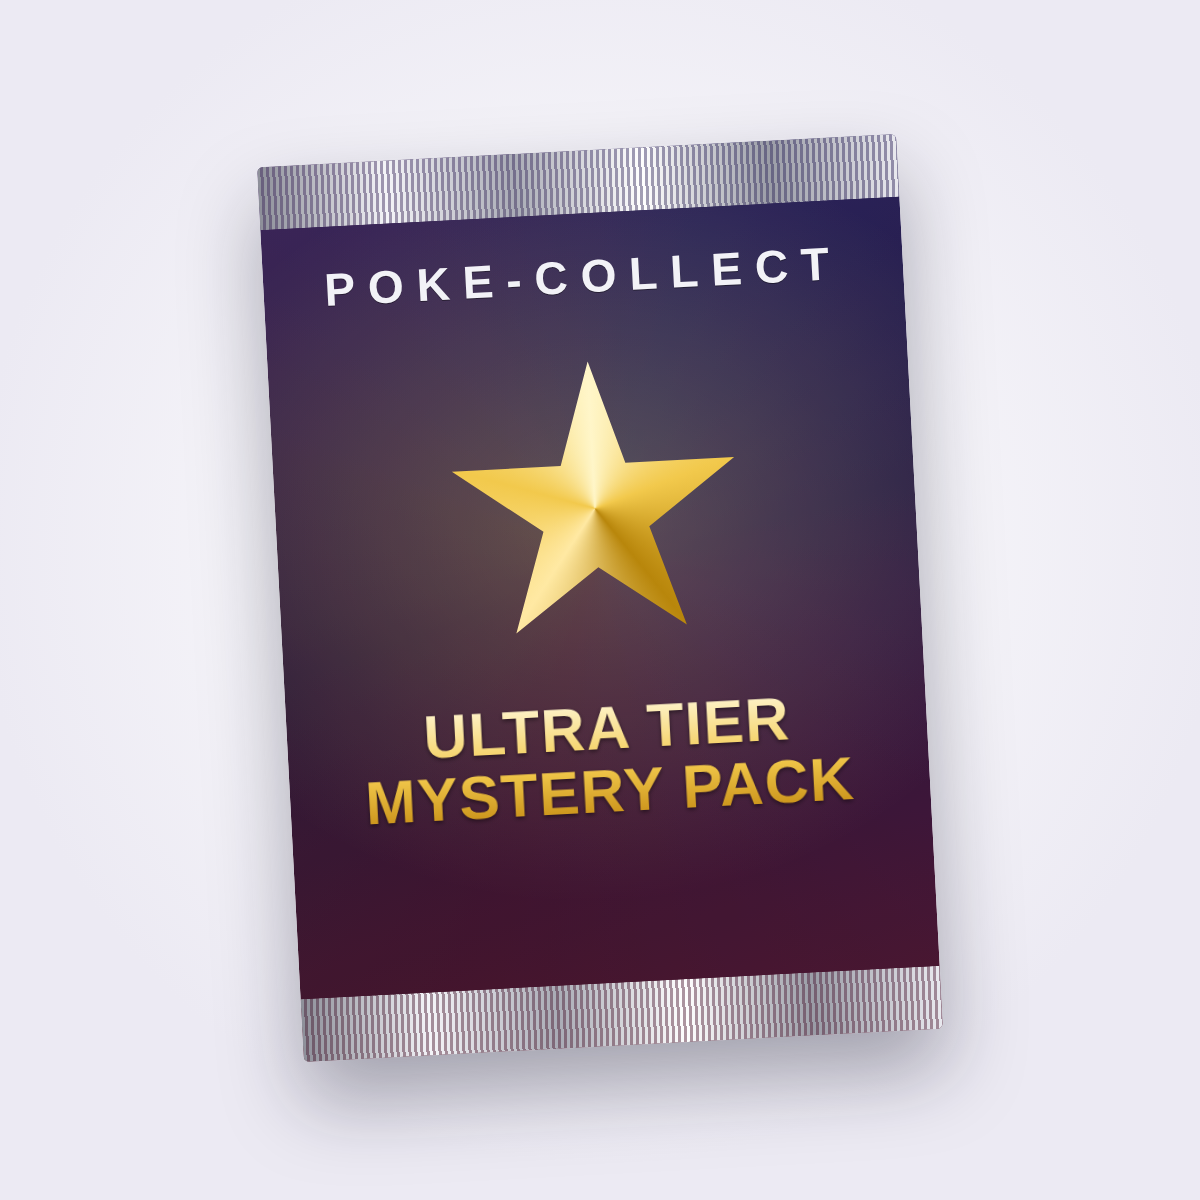
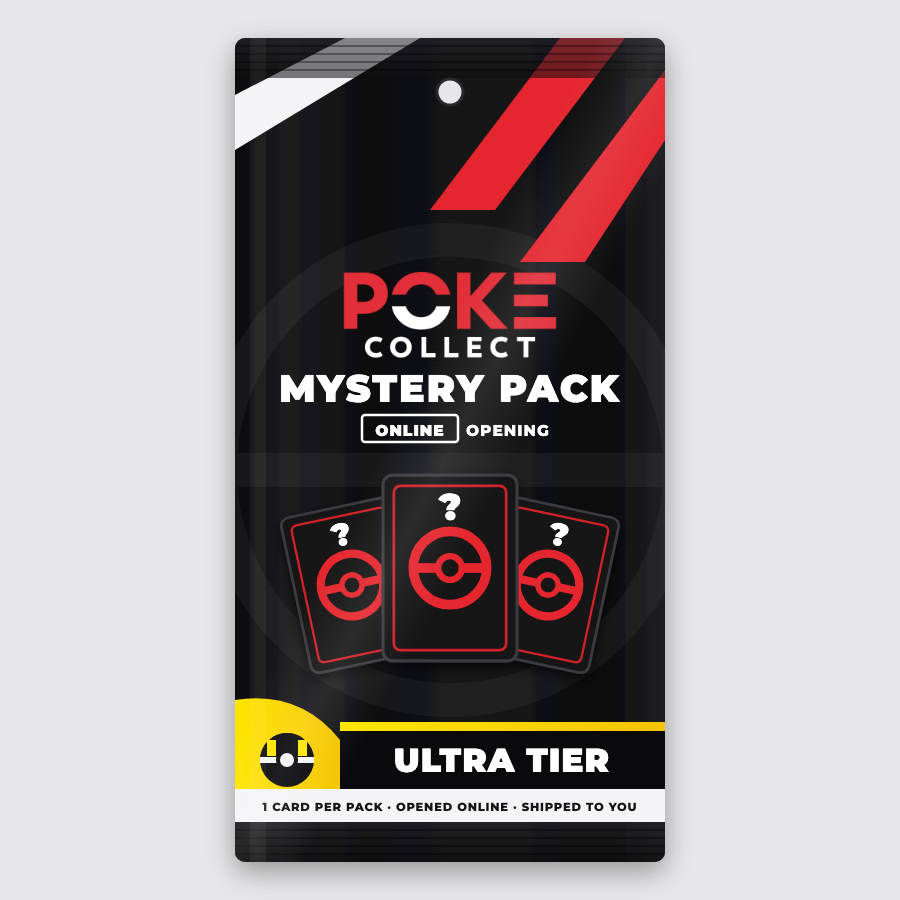
Ultra Tier pack art in the Poke-Collect mystery packaging style
Replaces public/packs/ultra-tier-pack.png with a black foil bag matching the
store's Mystery Bag and TAG Mystery Graded Card mockups (red and white
stripes, stacked Poke-Collect logo, yellow Ultra tier band, no pull ratios).
design/ultra-tier-pack.html is the source; open it in a browser at 900x900
to re-export or make other tiers. Pack tiles style square artwork on grey.

diff --git a/design/ultra-tier-pack.html b/design/ultra-tier-pack.html
@@ -1,0 +1,83 @@
+<!doctype html><html><head><meta charset="utf-8">
+<link href="https://fonts.googleapis.com/css2?family=Montserrat:wght@600;700;800;900&display=block" rel="stylesheet">
+<style>html,body{margin:0;background:#e7e7e9}svg{display:block}text{font-family:Montserrat,Arial,sans-serif}</style></head><body>
+<svg width="900" height="900" viewBox="0 0 900 900" xmlns="http://www.w3.org/2000/svg" xmlns:xlink="http://www.w3.org/1999/xlink">
+<defs>
+  <linearGradient id="bag" x1="0" y1="0" x2="1" y2="0">
+    <stop offset="0" stop-color="#0b0b0d"/><stop offset=".12" stop-color="#1c1c20"/><stop offset=".3" stop-color="#0e0e10"/>
+    <stop offset=".62" stop-color="#151518"/><stop offset=".86" stop-color="#0a0a0c"/><stop offset="1" stop-color="#202024"/></linearGradient>
+  <linearGradient id="gloss" x1="0" y1="0" x2="1" y2="1">
+    <stop offset="0" stop-color="#fff" stop-opacity=".0"/><stop offset=".42" stop-color="#fff" stop-opacity=".0"/>
+    <stop offset=".5" stop-color="#fff" stop-opacity=".09"/><stop offset=".58" stop-color="#fff" stop-opacity="0"/></linearGradient>
+  <linearGradient id="crimp" x1="0" y1="0" x2="0" y2="1"><stop offset="0" stop-color="#2a2a2e"/><stop offset="1" stop-color="#0d0d0f"/></linearGradient>
+  <linearGradient id="yellow" x1="0" y1="0" x2="1" y2="0"><stop offset="0" stop-color="#ffe600"/><stop offset="1" stop-color="#f5c400"/></linearGradient>
+  <clipPath id="bagclip"><rect x="235" y="38" width="430" height="824" rx="10"/></clipPath>
+  <filter id="sh" x="-30%" y="-30%" width="160%" height="160%"><feDropShadow dx="0" dy="10" stdDeviation="14" flood-color="#000" flood-opacity=".35"/></filter>
+  <filter id="cs" x="-30%" y="-30%" width="160%" height="160%"><feDropShadow dx="0" dy="6" stdDeviation="6" flood-color="#000" flood-opacity=".6"/></filter>
+  <g id="cardback">
+    <rect x="-62" y="-86" width="124" height="172" rx="9" fill="#141416" stroke="#3a3a40" stroke-width="3"/>
+    <rect x="-52" y="-76" width="104" height="152" rx="6" fill="none" stroke="#e5262f" stroke-width="2.5" opacity=".9"/>
+    <circle r="34" fill="none" stroke="#e5262f" stroke-width="9"/>
+    <rect x="-34" y="-4.5" width="68" height="9" fill="#e5262f"/>
+    <circle r="11" fill="#141416" stroke="#e5262f" stroke-width="6"/>
+    <text y="-44" text-anchor="middle" font-size="34" font-weight="900" fill="#fff">?</text>
+  </g>
+</defs>
+
+<!-- bag -->
+<g filter="url(#sh)">
+  <rect x="235" y="38" width="430" height="824" rx="10" fill="url(#bag)"/>
+</g>
+<g clip-path="url(#bagclip)">
+  <!-- faint ball watermark -->
+  <g opacity=".045" fill="none" stroke="#fff" stroke-width="34">
+    <circle cx="450" cy="470" r="230"/><line x1="220" y1="470" x2="680" y2="470"/></g>
+  <!-- diagonal stripes, as on Poke-Collect mystery packaging -->
+  <polygon points="235,150 235,95 345,38 420,38" fill="#f4f4f6"/>
+  <polygon points="235,215 235,175 455,38 520,38" fill="#f4f4f6" opacity=".0"/>
+  <polygon points="430,210 560,38 625,38 495,210" fill="#e5262f"/>
+  <polygon points="520,262 665,70 665,140 585,262" fill="#e5262f"/>
+  <polygon points="610,262 665,190 665,262" fill="#e5262f" opacity=".0"/>
+  <!-- crimp seal -->
+  <rect x="235" y="38" width="430" height="40" fill="url(#crimp)" opacity=".55"/>
+  <g stroke="#000" stroke-opacity=".35" stroke-width="2">
+    <path d="M235 46 H665 M235 54 H665 M235 62 H665 M235 70 H665"/></g>
+  <rect x="235" y="822" width="430" height="40" fill="url(#crimp)" opacity=".55"/>
+  <g stroke="#000" stroke-opacity=".35" stroke-width="2"><path d="M235 830 H665 M235 838 H665 M235 846 H665 M235 854 H665"/></g>
+
+  <!-- logo + title -->
+  <image href="https://poke-collect.com/cdn/shop/files/Typeface_Logo_Main_1.png?v=1722970271&amp;width=600" x="335" y="268" width="230" height="93.4"/>
+  <text x="450" y="402" text-anchor="middle" font-size="38" font-weight="900" fill="#fff" letter-spacing="2">MYSTERY PACK</text>
+  <g transform="translate(450 432)">
+    <rect x="-88" y="-17" width="96" height="27" rx="3" fill="none" stroke="#fff" stroke-width="2.5"/>
+    <text x="-40" y="3.5" text-anchor="middle" font-size="15.5" font-weight="900" fill="#fff" letter-spacing="1">ONLINE</text>
+    <text x="16" y="3.5" font-size="15.5" font-weight="800" fill="#fff" letter-spacing="1">OPENING</text>
+  </g>
+
+  <!-- three mystery card backs -->
+  <g filter="url(#cs)">
+    <use href="#cardback" transform="translate(352 585) rotate(-12) scale(.92)"/>
+    <use href="#cardback" transform="translate(548 585) rotate(12) scale(.92)"/>
+    <use href="#cardback" transform="translate(450 568) scale(1.08)"/>
+  </g>
+
+  <!-- tier band (Ultra = yellow, matching Ultra Edition / Ultra Tier) -->
+  <path d="M235 700 Q300 690 340 740 L340 822 L235 822 Z" fill="url(#yellow)"/>
+  <rect x="340" y="722" width="325" height="9" fill="url(#yellow)"/>
+  <rect x="340" y="731" width="325" height="58" fill="#0a0a0c"/>
+  <text x="502" y="772" text-anchor="middle" font-size="33" font-weight="900" fill="#fff" letter-spacing="1">ULTRA TIER</text>
+  <rect x="235" y="789" width="430" height="33" fill="#f4f4f6"/>
+  <text x="450" y="811" text-anchor="middle" font-size="11.5" font-weight="800" fill="#141416" letter-spacing=".8">1 CARD PER PACK · OPENED ONLINE · SHIPPED TO YOU</text>
+  <g transform="translate(287 760)">
+    <circle r="27" fill="#0a0a0c"/><path d="M-27 0 A27 27 0 0 1 27 0 Z" fill="#0a0a0c"/>
+    <rect x="-20" y="-20" width="9" height="16" fill="#ffe600"/><rect x="11" y="-20" width="9" height="16" fill="#ffe600"/>
+    <rect x="-27" y="-3" width="54" height="6" fill="#f4f4f6"/><circle r="9" fill="#f4f4f6" stroke="#0a0a0c" stroke-width="4"/>
+  </g>
+
+  <!-- gloss -->
+  <rect x="235" y="38" width="430" height="824" fill="url(#gloss)"/>
+  <rect x="250" y="38" width="16" height="824" fill="#fff" opacity=".05"/>
+</g>
+<!-- hang hole -->
+<circle cx="450" cy="92" r="13" fill="#e7e7e9" stroke="#2a2a2e" stroke-width="3"/>
+</svg></body></html>

diff --git a/public/packs/opener.css b/public/packs/opener.css
@@ -189,9 +189,9 @@
 }
 
 /* Pack product artwork in place of the CSS foil pack: the image already has its own crimps and branding */
-.mp-pack-art { background: #120a2e; }
+.mp-pack-art { background: #e7e7e9; }
 .mp-pack-art::before, .mp-pack-art::after { display: none; }
 .mp-pack-img { position: absolute; inset: 0; width: 100%; height: 100%; object-fit: cover; }
-.mp-pack-art .mp-pack-foil { opacity: .35; }
-.mp-pack-art .mp-pack-label { bottom: 4%; background: rgba(18,10,46,.55); }
-.mp-pack-art .mp-tear { background: linear-gradient(90deg, #9aa3ad, #f4f6f9 30%, #b7bec7 60%, #eef1f4); }
+.mp-pack-art .mp-pack-foil { opacity: .25; }
+.mp-pack-art .mp-pack-label { bottom: 3%; color: #14141a; background: rgba(255,255,255,.75); border-color: rgba(20,20,26,.2); }
+.mp-pack-art .mp-tear { left: 14%; right: 14%; height: 11%; background: linear-gradient(180deg, #2a2a2e, #0d0d0f); border-bottom-color: rgba(255,255,255,.55); }
